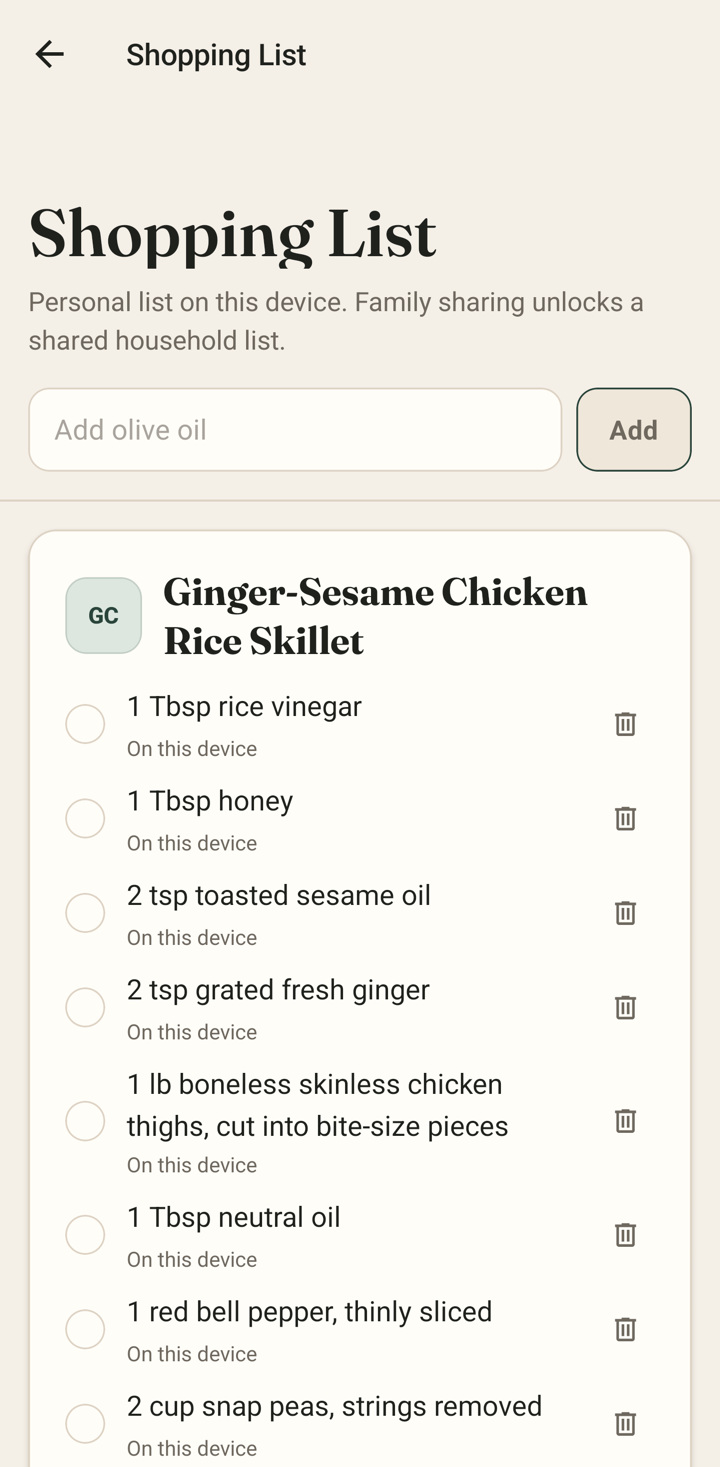
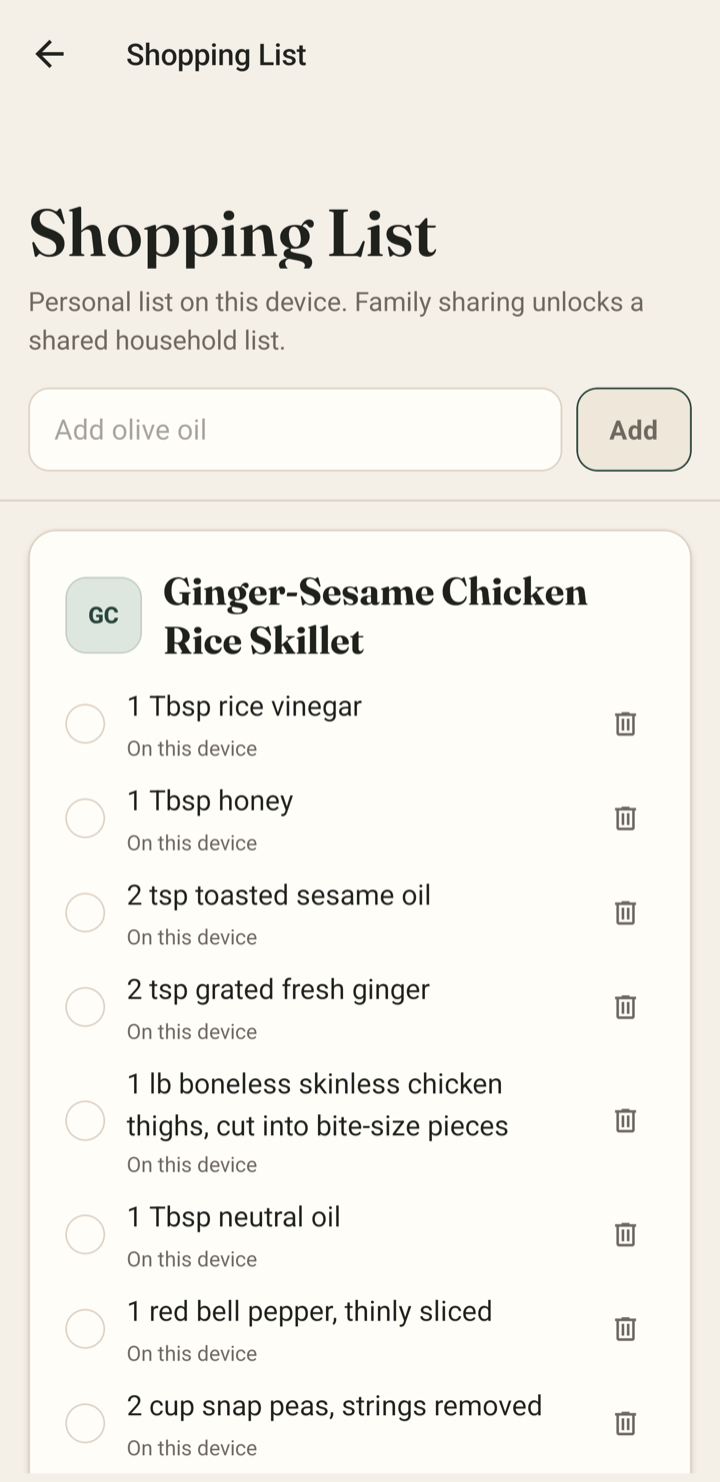
Refine screenshot crop (tab labels intact)

diff --git a/site/index.html b/site/index.html
@@ -162,7 +162,7 @@
                 src="assets/hero-cookmode.png"
                 alt="Cook mode with a running timer"
                 width="461"
-                height="939"
+                height="949"
               />
             </figure>
             <figure class="phone-frame phone-frame-front">
@@ -170,7 +170,7 @@
                 src="assets/hero-cookbook.png"
                 alt="Your LinkDish cookbook"
                 width="461"
-                height="939"
+                height="949"
               />
             </figure>
           </div>
@@ -290,7 +290,7 @@
                     src="assets/screen-cookmode.png"
                     alt="LinkDish cook mode with large recipe steps and timers"
                     width="720"
-                    height="1467"
+                    height="1482"
                   />
                 </figure>
               </div>
@@ -325,7 +325,7 @@
                     src="assets/screen-recipe.png"
                     alt="LinkDish recipe view with serving controls and ingredients"
                     width="720"
-                    height="1467"
+                    height="1482"
                   />
                 </figure>
               </div>
@@ -338,7 +338,7 @@
                     src="assets/screen-shopping.png"
                     alt="LinkDish household shopping list"
                     width="720"
-                    height="1467"
+                    height="1482"
                   />
                 </figure>
               </div>
@@ -364,7 +364,7 @@
                   src="assets/screen-recipe.png"
                   alt=""
                   width="720"
-                  height="1467"
+                  height="1482"
                 />
               </div>
               <figcaption>Half it. Double it. Custom it.</figcaption>
@@ -376,7 +376,7 @@
                   src="assets/screen-cookmode.png"
                   alt=""
                   width="720"
-                  height="1467"
+                  height="1482"
                 />
               </div>
               <figcaption>Timers parsed straight from the steps.</figcaption>
@@ -388,7 +388,7 @@
                   src="assets/screen-shopping.png"
                   alt=""
                   width="720"
-                  height="1467"
+                  height="1482"
                 />
               </div>
               <figcaption>Tap an ingredient, it's on the list.</figcaption>

diff --git a/site/styles.css b/site/styles.css
@@ -910,7 +910,7 @@ p {
 .macro-shopping {
   left: 50%;
   top: 0;
-  transform: translate(-50%, -47%);
+  transform: translate(-50%, -46%);
   width: 120%;
 }
 
